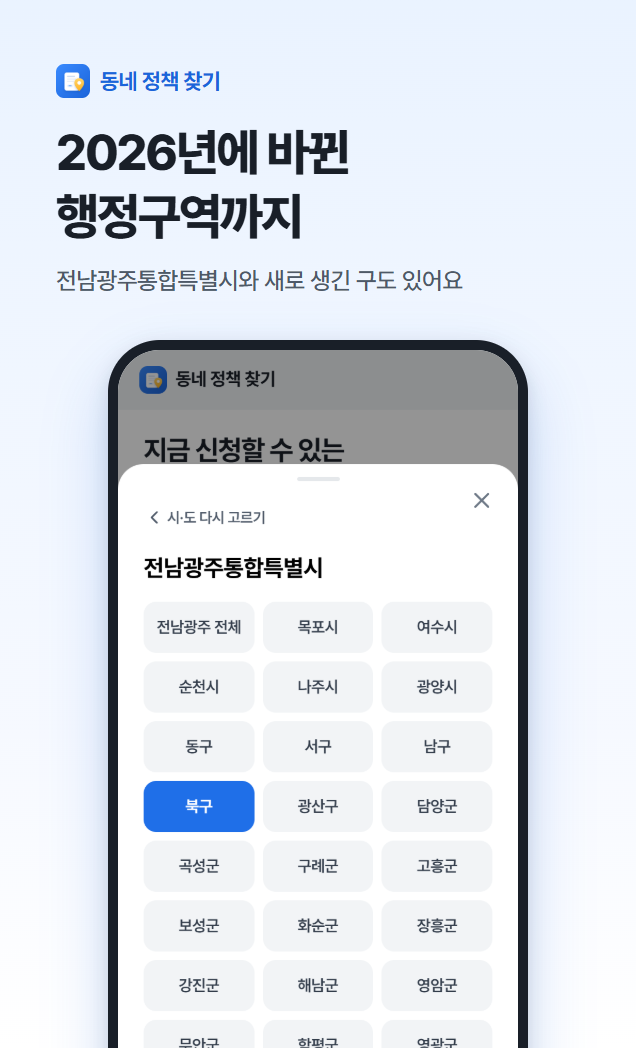
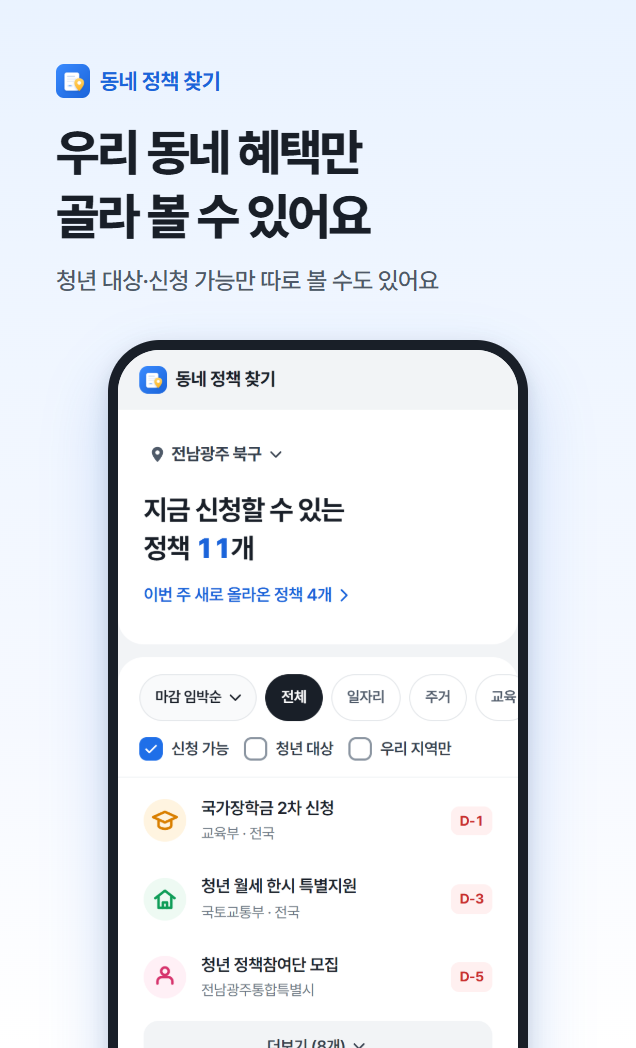
[Docs] 지역 버튼·빠르기 구조와 바뀐 화면 스크린샷 갱신

diff --git a/README.md b/README.md
@@ -4,7 +4,7 @@
 
 지금 데이터는 정부24 공공서비스(혜택) API예요. "청년 대상"은 제목·대상·설명에 "청년"이 있는 혜택이에요(약 500건). 온통청년 청년정책 수집기는 만들어 두었지만 공공데이터포털 운영 승인이 나기 전까지는 키가 거부돼서 건너뛰어요. 승인되면 키만 넣으면 함께 모여요.
 
-<img src="docs/screenshots/mobile-home.png" width="220" alt="동네 고르기" /> <img src="docs/screenshots/mobile-town.png" width="220" alt="우리 동네 홈" /> <img src="docs/screenshots/mobile-detail.png" width="220" alt="정책 상세" />
+<img src="docs/screenshots/mobile-home.png" width="220" alt="홈(전국)" /> <img src="docs/screenshots/mobile-region.png" width="220" alt="지역 고르기" /> <img src="docs/screenshots/mobile-detail.png" width="220" alt="정책 상세" />
 
 모든 기능은 무료예요. 인앱결제·광고는 없어요.
 
@@ -16,7 +16,7 @@ systemd 타이머(6시간) → scripts/collect.ts
   └ 대한민국 공공서비스(혜택) API (DATA_GO_KR_API_KEY) → server/sources/gov24.ts
   → 지역 코드를 지금 행정구역으로 맞춤(shared/regions.ts) → SQLite
 systemd 타이머(주 1회) → scripts/build-regions.ts → 도로명주소 API로 시·도/시·군·구 확인 → data/regions.json
-미니앱 → GET /api/policies · /api/regions · /api/config
+미니앱 → GET /api/index(지역별 가벼운 목록) · /api/policies/:id(상세) · /api/regions · /api/config
 ```
 
 - **지역 목록**: 고정 목록 대신 도로명주소 API(JUSO_API_KEY)로 이름과 법정동코드를 하나씩 확인해요. 옛 이름으로 검색했는데 새 이름이 나오면 그 이름도 더해요. 2026-10-29 기준 시·도 16곳, 시·군·구 230곳이에요(일반구가 있는 시는 시 하나로 묶어요).
@@ -24,12 +24,12 @@ systemd 타이머(주 1회) → scripts/build-regions.ts → 도로명주소 API
   - 인천 중구·동구 → 제물포구·영종구, 서구 → 서해구·검단구
   - 화성시 일반구(만세·효행·병점·동탄)
 - **옛 코드 처리**: 정책 데이터에 남은 옛 코드(29·46 → 12, 42 → 51, 45 → 52, 인천 28110 등)를 지금 지역으로 바꿔요.
-- **화면 배치**: `tests/browser/audit.spec.ts`가 기준을 재요. 기준은 접힘선(375×812에서 동네 선택과 첫 정책이 보임), 글자 대비 4.5:1, 터치 높이 44px, 가로 넘침 없음, 조건 칩 한 줄이에요. 정렬·조건이 목록 카드 안에 있는지와 상세의 "공식 페이지" 버튼이 화면 안에 보이는지도 확인해요.
-  - 첫 화면(고르기 전): 그림 → "사는 동네를 골라 주세요" → 전국 혜택 수 → **시·도 / 시·군·구 선택 칸**. 입력창은 없고 선택만 해요.
-  - 고른 뒤: 신청 가능 개수 → "이번 주 새로 올라온 정책 N개 ›"(누르면 최근 등록순) → 같은 자리의 선택 칸. 장식 그림은 빼서 목록이 먼저 보여요.
-  - 목록 카드: 제목·정렬 → 분야 칩 → 조건(신청 가능·청년 대상·우리 지역만) → 정책 3개 → 더보기.
-  - 시·도를 고르면 바로 시·군·구 목록으로 넘어가요. 시·군·구 칸은 그 시·도 목록을 바로 열어요. 세종은 시·군·구 칸이 꺼져요.
-  - 고른 동네는 기기에만 저장하고 서버로 보내지 않아요.
+- **화면 배치**: 꼭 필요한 문구만 둬요. `tests/browser/audit.spec.ts`가 기준을 재요. 기준은 접힘선(375×812에서 지역 버튼과 첫 정책이 보임), 대비 4.5:1, 터치 44px, 가로 넘침 없음, 조건 칩 한 줄, 정렬·조건이 목록 카드 안, 지역 고르기를 재촉하는 문구 없음이에요.
+  - 첫 화면: 지역 버튼("전국" ▾) → 지금 신청할 수 있는 정책 N개 → "이번 주 새로 올라온 정책 N개 ›"(누르면 최근 등록순).
+  - 지역은 고르지 않아도 돼요. 지역 버튼 하나를 누르면 시·도 목록이 나오고, 시·도를 누르면 같은 시트에서 그 시·도의 시·군·구가 나와요. 다시 열면 고른 시·도의 시·군·구 목록부터 보여요. 토스 뒤로 가기는 시·군·구 → 시·도 → 닫기 순서예요.
+  - 목록 카드: [정렬 ▾][전체][분야…] 칩 한 줄 → 조건(신청 가능·청년 대상·우리 지역만) → 정책 3개 → 더보기.
+  - 고른 지역은 기기에만 저장하고 서버로 보내지 않아요.
+- **빠르기**: 데이터는 서버 SQLite에 있어요. 앱은 지역을 바꿀 때만 `/api/index`로 그 지역(전국 정책 포함)의 가벼운 목록을 한 번 받아요. 칸 이름 없는 줄 배열이라 전국 245KB, 시·군·구 하나는 40KB 정도(압축 기준)예요. 분야·조건·정렬은 기기에서 바로 바꿔서 칩을 눌러도 서버를 부르지 않아요. 서버는 데이터 버전별로 지역 결과를 메모리에 들고 ETag(304)로 응답해요. 앱은 마지막 지역 목록을 기기에 저장해 다음에 열면 바로 보여 주고 뒤에서 새로 받아요. 상세 설명·공식 페이지 주소는 상세를 열 때만 받아요.
 - **신청 상태**: 온통청년은 신청기간 코드(0057001 특정기간·0057002 상시·0057003 마감)를 먼저 보고, 없으면 날짜로 판단해요. 정부 혜택은 `신청기한` 문장에서 날짜와 "상시"를 읽어요.
 - **키 처리**: 키가 없거나 거부되면 그 출처만 건너뛰고 저장된 목록은 그대로 둬요(타이머 실패로 쌓지 않아요). 상태는 `/api/policies`의 `sources`에 `ok / no-key / invalid-key / error`로 나와요.
 - **목록 제목**: 같은 이름의 정책(여러 구의 "청년 월세 지원" 등)은 지역이나 기관 이름을 붙여 줄마다 달라요. 첫 화면 목록은 3개만 보이고 나머지는 더보기예요.
@@ -66,8 +66,8 @@ npm run regions     # 지역 목록 다시 확인(shared/regions.json)
 ## 검증
 
 ```powershell
-npm test            # 지역·정렬·출처 변환·API·수집·알림 단위 테스트 28개
-npm run test:e2e    # Edge 375·768·1440px 흐름 14개 (스크린샷 docs/screenshots 갱신)
+npm test            # 지역·정렬·출처 변환·API·수집·알림 단위 테스트 29개
+npm run test:e2e    # Edge 375·768·1440px 흐름 15개 (스크린샷 docs/screenshots 갱신)
 npx playwright test --project=audit   # 배치 자동 점검 3개(어긋난 곳을 목록으로 보여 줘요)
 npm run build       # 출시용: 설정 검사 → 콘솔 스크린샷 3장 → 타입 검사 → 번들 → policy.ait
 npx ait deploy -m "<대표 커밋 메시지>"
@@ -77,7 +77,7 @@ npx ait deploy -m "<대표 커밋 메시지>"
 
 ## 배포 (BlueCL)
 
-현재 서버 릴리스 `policy-20261029012806`(2026-10-29 설치), 앱 번들 deploymentId `01a18549-7489-7c5a-9c2a-64c84e8c48a0`. 정부 혜택 9,933건 수집 중(온통청년은 운영 승인 대기).
+현재 서버 릴리스 `policy-20261029014842`(2026-10-29 설치), 앱 번들 deploymentId `01a1855d-42f5-78f7-88ba-603258adc669`. 정부 혜택 9,933건 수집 중(온통청년은 운영 승인 대기).
 
 `/home/solty/dev/policy/{releases,current,node,data,.env}`, API 포트 `18826`, 공개 경로 `https://bluecl.cloud/policy/api/`. Node는 gongmodu와 같은 `node` 링크(v24)를 써요.
 
